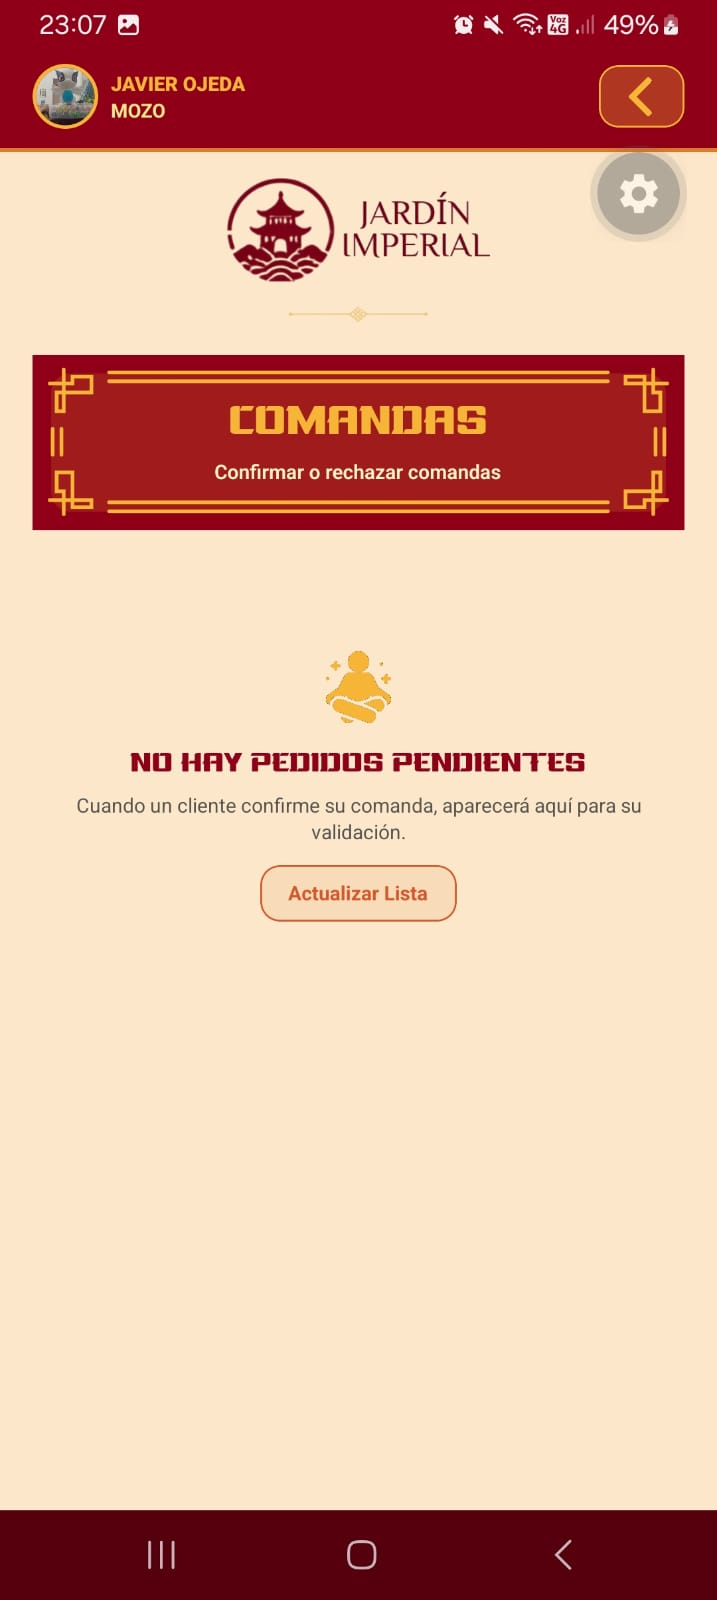
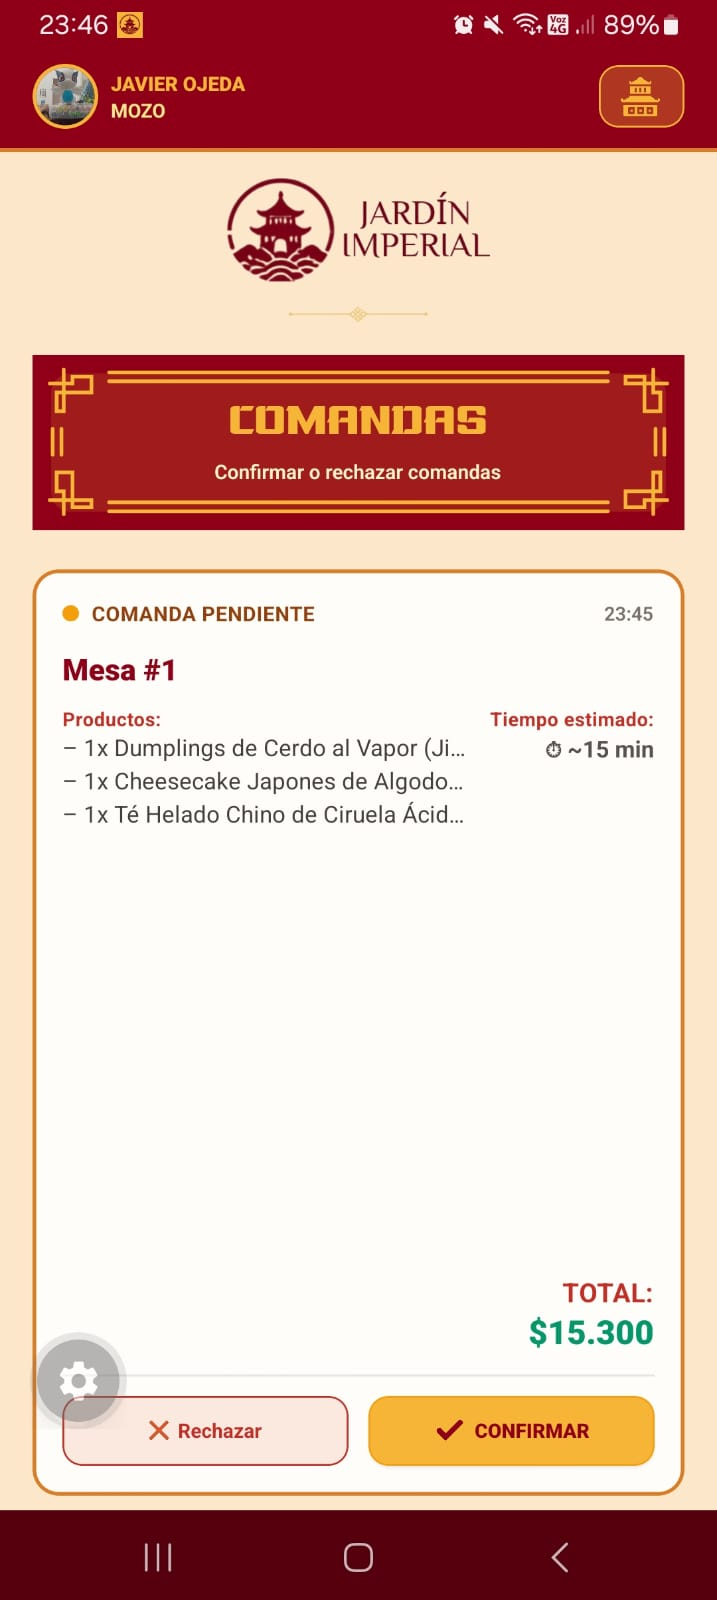
update: readme

diff --git a/README.md b/README.md
@@ -134,14 +134,15 @@ Las capturas están agrupadas por rol para recorrer los flujos disponibles en ca
 
 #### Walkthrough: Mozo
 
-| Paso / pantalla         | Captura                                                                                      |
-| ----------------------- | -------------------------------------------------------------------------------------------- |
-| Dashboard del mozo      | ![Dashboard del mozo](./assets/mapeo/mozo/mozo_dashboard.jpg)                                |
-| Acceso a chats / mesas  | ![Dashboard de chats del mozo](./assets/mapeo/mozo/mozo_dashboard_chats.jpeg)                |
-| Ejemplo de chat en vivo | ![Conversación de consulta al mozo en la mesa 2](./assets/mapeo/mozo/mozo_chatEjemplo.jpeg)  |
-| Comandas                | ![Comandas visibles para el mozo](./assets/mapeo/mozo/mozo_comandas.jpeg)                    |
-| Pedidos Listos          | ![Pedidos listos para entregar](./assets/mapeo/mozo/mozo_dashboard_pedidosListos.jpeg)       |
-| Transacciones           | ![Transacciones de pedidos y cuentas](./assets/mapeo/mozo/mozo_dashboard_transacciones.jpeg) |
+| Paso / pantalla         | Captura                                                                                           |
+| ----------------------- | ------------------------------------------------------------------------------------------------- |
+| Dashboard del mozo      | ![Dashboard del mozo](./assets/mapeo/mozo/mozo_dashboard.jpg)                                     |
+| Acceso a chats / mesas  | ![Dashboard de chats del mozo](./assets/mapeo/mozo/mozo_dashboard_chats.jpeg)                     |
+| Ejemplo de chat en vivo | ![Conversación de consulta al mozo en la mesa 2](./assets/mapeo/mozo/mozo_chatEjemplo.jpeg)       |
+| Comandas                | ![Comandas visibles para el mozo](./assets/mapeo/mozo/mozo_comandas.jpeg)                         |
+| Pedidos Listos          | ![Pedidos listos para entregar](./assets/mapeo/mozo/mozo_dashboard_pedidosListos.jpeg)            |
+| Transacciones           | ![Transacciones de pedidos y cuentas](./assets/mapeo/mozo/mozo_dashboard_transacciones.jpeg)      |
+| Detalle de Transacción  | ![Detalle de transacción de pedido y cuenta](./assets/mapeo/mozo/mozo_detalle_transacciones.jpeg) |
 
 Pendiente de agregar: pedido listo, entrega, solicitud de cuenta y confirmación del pago.
 
@@ -211,6 +212,7 @@ Pendiente de agregar: pedido listo, entrega, solicitud de cuenta y confirmación
 | Carrito post rechazo del mozo          | ![Carrito del cliente luego del rechazo del mozo](./assets/mapeo/registro_inicio_clientes/cliente_carrito_postRechazo.jpg) |
 | Dashboard post pedido                  | ![Dashboard del cliente con pedido en curso](./assets/mapeo/registro_inicio_clientes/cliente_dashboard_postPedido.jpg)     |
 | Detalle del pedido en curso            | ![Detalle del pedido en curso](./assets/mapeo/registro_inicio_clientes/cliente_verEstadoPedido.jpg)                        |
+| Detalle del Pago                       | ![Detalle del pago del pedido](./assets/mapeo/registro_inicio_clientes/cliente_pago_detalle.jpeg)                          |
 
 ##### Chat con el mozo
 
@@ -282,9 +284,10 @@ Las capturas actuales muestran notificaciones del sistema en iOS y Android. Se p
 
 ### Correos transaccionales
 
-| Evento                         | Captura                                                                              |
-| ------------------------------ | ------------------------------------------------------------------------------------ |
-| Rechazo de registro de cliente | ![Correo automático de rechazo del registro](./assets/notifications/mailRechazo.png) |
+| Evento                            | Captura                                                                                    |
+| --------------------------------- | ------------------------------------------------------------------------------------------ |
+| Rechazo de registro de cliente    | ![Correo automático de rechazo del registro](./assets/notifications/mailRechazo.png)       |
+| Aprobación de registro de cliente | ![Correo automático de aprobación del registro](./assets/notifications/mailAprobacion.png) |
 
 ---
 
